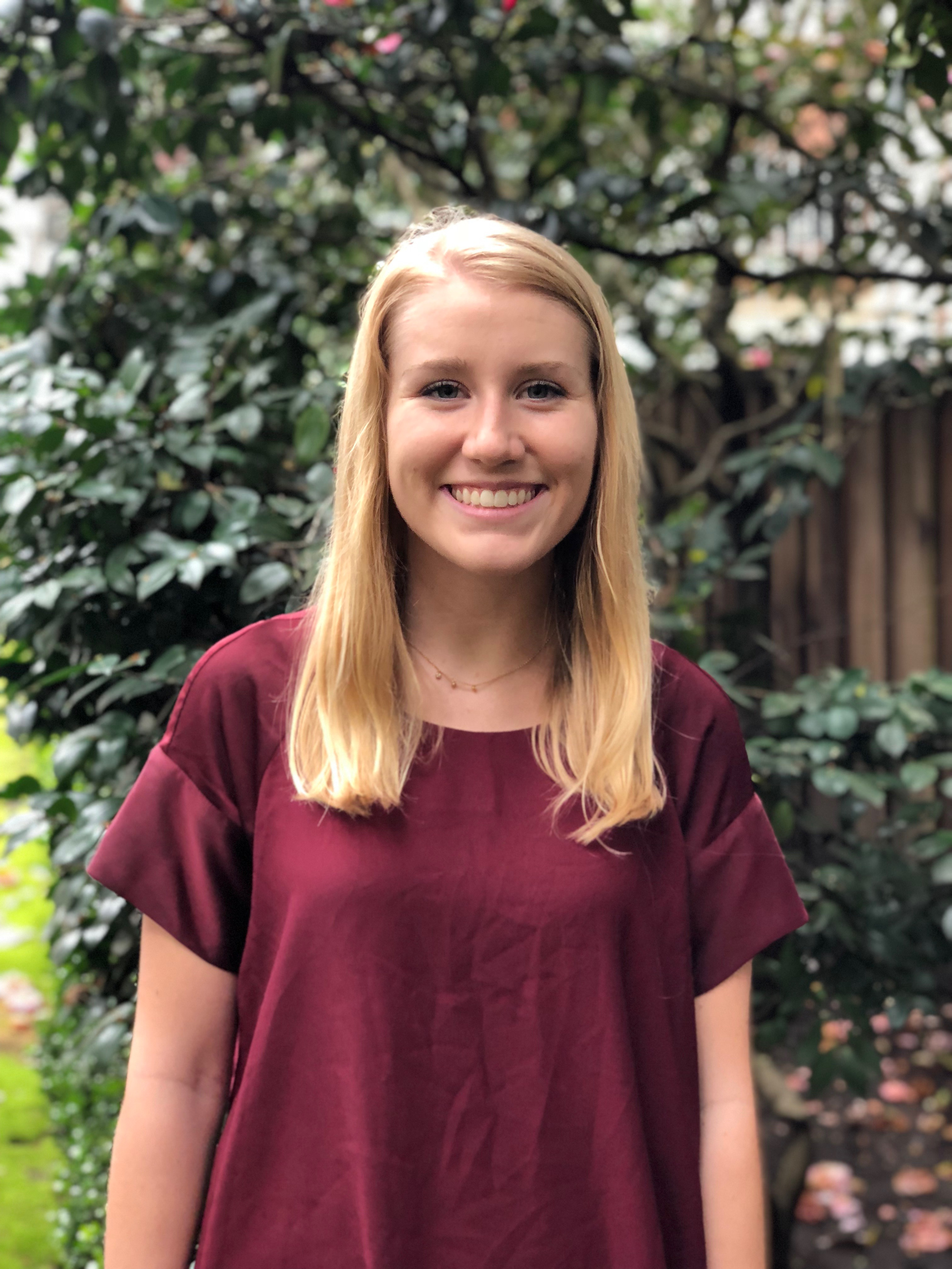
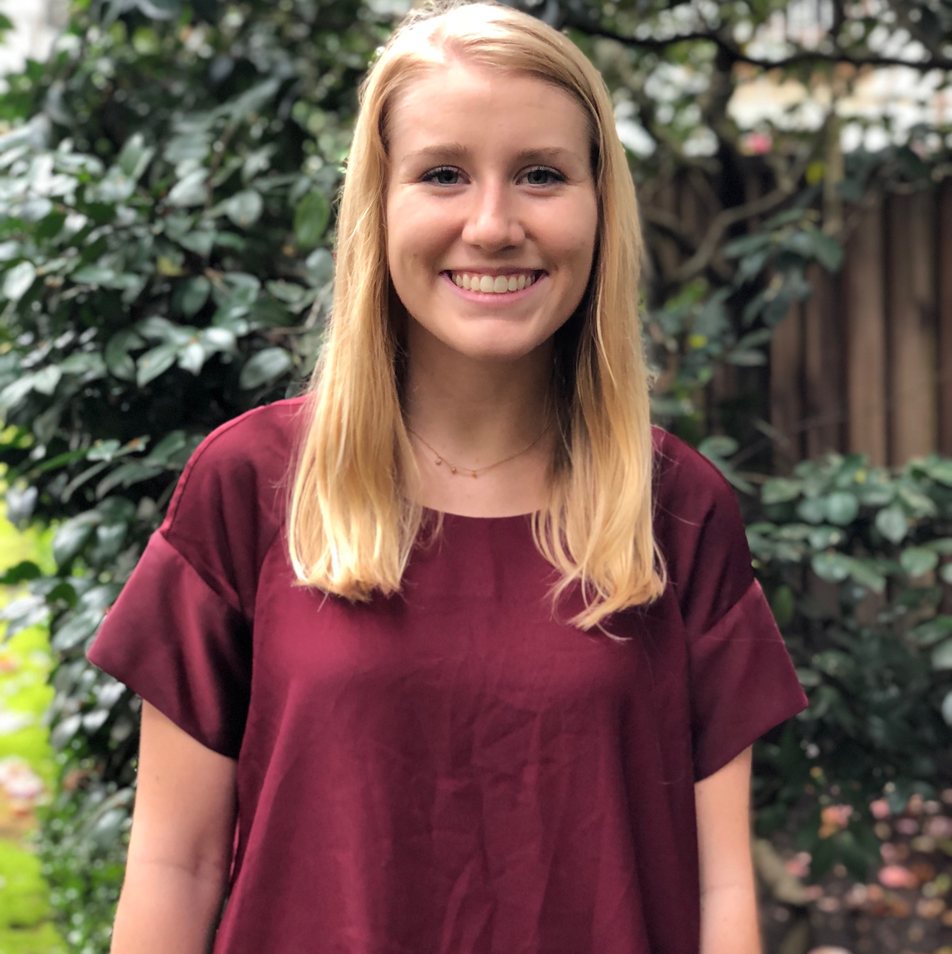
readjusted images, backed original images, added ATG images

diff --git a/members.py b/members.py
@@ -25,7 +25,7 @@ members = {
             "facebook": "www.facebook.com/riley.mcdanal",
             "github": "",
             "personal": "",
-            "img": "img/staff/rileymcdanal.PNG"
+            "img": "img/staff/rileymcdanal.jpg"
         },
         "Annelise Meyer": {
             "title": "Vice Research Director",
@@ -98,7 +98,7 @@ members = {
             "facebook": "",
             "github": "",
             "personal": "",
-            "img": ""
+            "img": "img/team/dillon_eskandar.png"
         },
         "Neil Toledo": {
             "title": "Deputy Director of Advanced Technologies Group",
@@ -124,8 +124,8 @@ members = {
             "linkedin": "https://www.linkedin.com/in/david-liu-a3139775/",
             "facebook": "https://www.facebook.com/Dave.Liu.Here",
             "github": "https://github.com/daliu/",
-            "personal": "",
-            "img": ""
+            "personal": "https://daliu.github.io/",
+            "img": "img/team/dave_liu.png"
         },
         "Kavi Vaidya": {
             "title": "Deputy Director of Finance",
@@ -134,7 +134,8 @@ members = {
             "facebook": "https://www.facebook.com/kavi.vaidya",
             "github": "https://www.github.com/kavibvaidya",
             "personal": "",
-            "img": ""
+            "img": "img/team/kavi_vaidya.png",
+            "bio": "Programmer, Developer, Researcher."
         },
         "Charlie Zhang": {
             "title": "Deputy Director of Design",
@@ -143,7 +144,7 @@ members = {
             "facebook": "",
             "github": "https://github.com/chfzhang",
             "personal": "",
-            "img": "img/staff/charliezhang.png"
+            "img": "img/team/charlie_zhang.png"
         },
         "Albert Huang": {
             "title": "Deputy Director of Internal Affairs",
@@ -152,7 +153,7 @@ members = {
             "facebook": "",
             "github": "",
             "personal": "",
-            "img": ""
+            "img": "img/team/albert_huang.png"
         },
         "Yasmeen Musthafa": {
             "title": "Director of Operations",
@@ -171,8 +172,11 @@ members = {
             "personal": "",
             "github": "",
             "linkedin": "https://www.linkedin.com/in/min-young-kim-93281211a/",
-            "img": "img/staff/minyoungkimcopy.jpeg",
-            "bio": """I love listening to music and spend too much money on different concerts. While I also enjoy watching movies, I usually get too lazy to go to a movie theater to actually watch any of them, so I most likely will not get your movie references."""
+            "img": "img/staff/minyoungkim.jpg",
+            "bio": """I love listening to music and spend too much money on different concerts.
+                        While I also enjoy watching movies, I usually get too lazy to go to a
+                        movie theater to actually watch any of them, so I most likely will not
+                        get your movie references."""
         },
         "Catherine Livelo": {
             "position": "Research Director: Public Health",
@@ -182,7 +186,7 @@ members = {
             "facebook": "",
             "github": "",
             "personal": "",
-            "img": "img/staff/catherinelivelo.JPG"
+            "img": "img/staff/catherinelivelo.jpg"
         },
         "Justin Gerwien": {
             "title": "Data Science Lab Manager/Engineering Task Force",
@@ -191,7 +195,7 @@ members = {
             "facebook": "",
             "github": "",
             "personal": "",
-            "img": "img/staff/justingerwien.JPG"
+            "img": "img/staff/justingerwien.jpg"
         },
         "Alan Pham": {
             "position": "Research Director: Data Science",
@@ -201,7 +205,7 @@ members = {
             "facebook": "",
             "github": "",
             "personal": "",
-            "img": "img/staff/alanpham.jpg"
+            "img": ""
         },
         "Sunita Bohara": {
             "title": "Events Coordinator",
